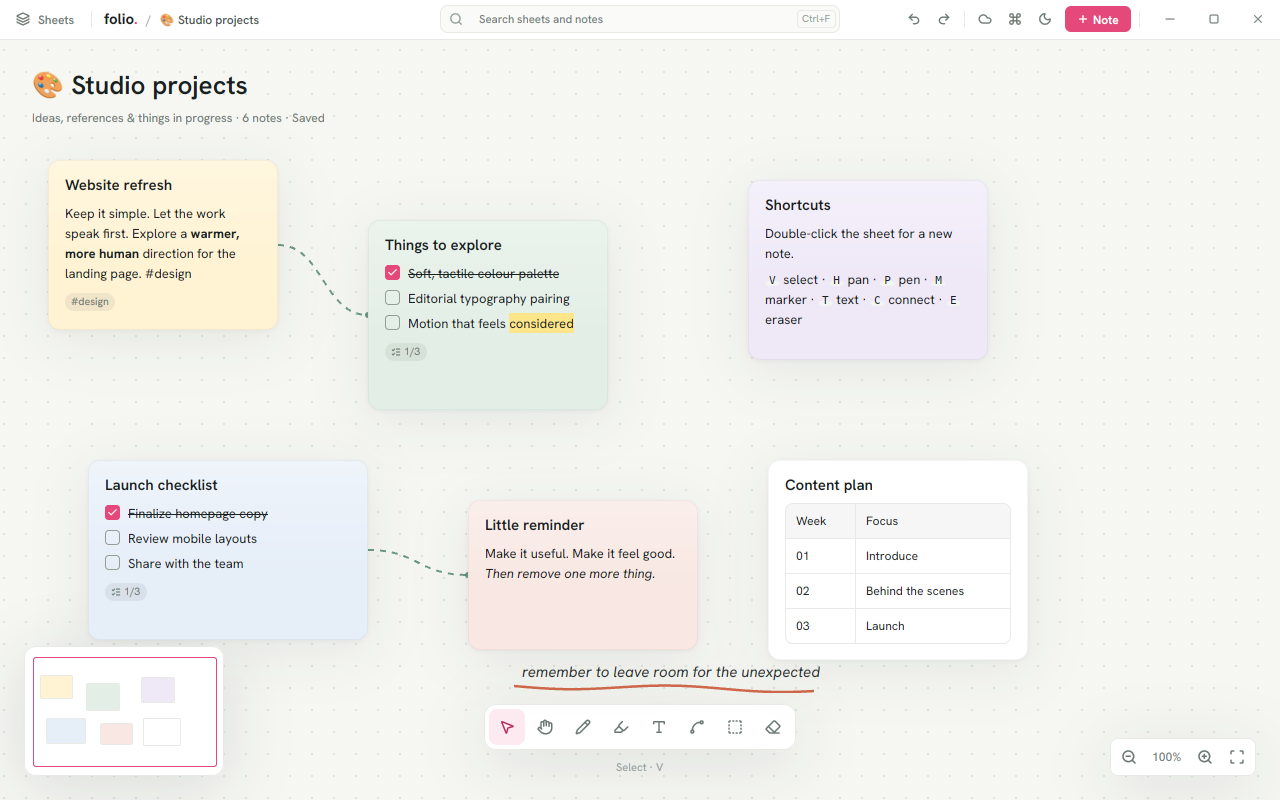
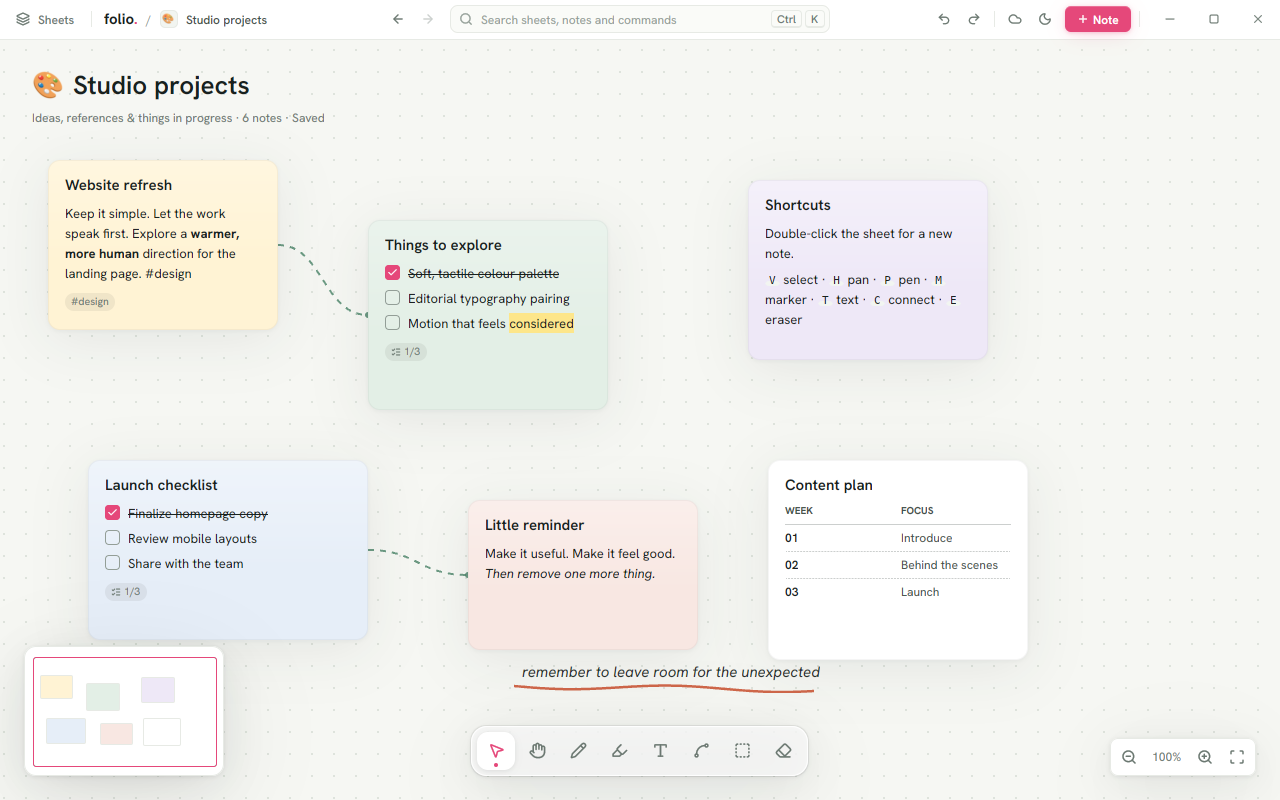
Docs and screenshots for the note types; the screenshot script gets past the welcome
PLAN.md and the README describe the four note types, the writing row
with its shortcuts, Remember boxes, the new tables, and text into
Markdown. scripts/screenshots.sh now answers the first-run welcome
(it stopped there before) and adds a "types" shot of the cheatsheet
sheet. The screenshots in docs/ are retaken, light and dark, on Linux;
nothing was seen on Windows.

Claude-Session: https://claude.ai/code/session_01GCSE1e8EJzYqPeJYXh6A2T

diff --git a/docs/PLAN.md b/docs/PLAN.md
@@ -19,8 +19,10 @@ and what is still to come.
 | Getting a thought down fast | ✅ Ctrl+Alt+N from any app opens a quick-note box → Inbox sheet; tray icon (Windows); start with Windows | a phone companion |
 | Notes visible outside the app | ✅ pin a note to the desktop: its own always-on-top window, ticks sync both ways, remembers where it was; see-through mode (solid again under the pointer) | |
 | Freeform canvas | ✅ pan (wheel, Space+drag, middle-drag, Hand), zoom at the cursor, zoom to fit; box select, Shift-click, group move; alignment guides; snap to the dot grid (Settings); areas that carry their notes; tidy up; arrow keys between notes; a map in the corner; drag notes to the left edge to drop them on another sheet; notes lift while dragged and settle with a small bounce | |
-| Sticker styling | ✅ 6 papers, 3 sizes, 3 fonts (sans, handwritten, mono), grow-with-text or fixed height (with a "+N more lines" fade), lock, a faint paper sheen | slight tilt: GPUI can't rotate elements, so it needs custom-drawn notes |
-| Editing | ✅ type straight on the note with a format bar (paper, font, size, task, picture, reminder, more); Esc/Done keeps it | WYSIWYG rendering while typing |
+| Sticker styling | ✅ 12 papers, 3 sizes, 3 fonts (sans, handwritten, mono), grow-with-text or fixed height (with a "+N more lines" fade), lock, a faint paper sheen; four note types: Card (the default), Taped (squarer paper, clear tape, a curl at the foot), Cheat card (the title on a deeper band of the paper), Index card (a pin, a pink margin, blue rules the text sits on, one thing per line); the type from the edit bar, a note's menu, S on the sheet, or the sheet's menu for a new note; new notes follow the type and font of the note changed last; a cross on hover sends a note to the Trash | slight tilt: GPUI can't rotate elements, so it needs custom-drawn notes |
+| Editing | ✅ type straight on the note with a two-row edit bar. Writing: bold (Ctrl+B), italic (Ctrl+I), strikethrough (Ctrl+Shift+X), code (Ctrl+E), highlight (Ctrl+Shift+M), bullets (Ctrl+Shift+B), numbers (Ctrl+Shift+O), tasks (Ctrl+Shift+C), a table, a Remember box (Ctrl+Shift+R), Markdown (Ctrl+Shift+T), picture, reminder, more. Look: type, paper, font, size, Done. Enter continues a list; Esc/Done keeps it | WYSIWYG rendering while typing |
+| Text into Markdown | ✅ `src/markdown.rs` turns plain text (pasted from Word, a PDF or a chat) into Markdown: `•`/`–`/`o` bullets, `1)`/`(a)` numbers, `☐`/`✔` boxes, `Term: meaning` with a bold term, `Tip:`/`Remember:` lines as a Remember box, tab-separated lines as a table, a short first line as the title. On the selection or the whole note (Ctrl+Shift+T, the edit bar's Markdown, a note's menu); Ctrl+Shift+V pastes as Markdown, on the sheet or in a note | rich-text (HTML) paste |
+| Remember boxes and tables | ✅ `>` lines draw as a Remember box, labelled by a first line such as `**Tip:**` or `[!NOTE]`; tables draw on the paper with small-caps headers and dashed rules | |
 | Tasks | ✅ `- [ ]` lines are real checkboxes you tick with a click, with a done/total chip | |
 | Coloured text | ✅ highlights (`<mark color="green">`), in tasks too | foreground colour (§4.1) |
 | Tables, images, GIFs, SVG | ✅ as before; link cards from a pasted address: the page's title, site icon and preview picture | crop, captions; animated SVG (§4.2) |
@@ -105,7 +107,10 @@ src/
   assets.rs      embedded icons, fonts, logo
   ui/app.rs      Folio view: state, tools, gestures, undo/redo, debounced save
   ui/board.rs    the sheet: pointer handling, culling, painting dots/ink/links
-  ui/sticker.rs  one sticker: paper, picture, title, Markdown, level of detail
+  markdown.rs    a note's text as blocks (text, tasks, Remember boxes, tables),
+                 the edit bar's formatting, text into Markdown  (no GPUI)
+  ui/sticker.rs  one sticker: its type, paper, picture, title, Markdown,
+                 level of detail
   ui/sidebar.rs  sheets list, theme switch
   ui/topbar.rs   breadcrumb, search, undo/redo, delete sheet, New note
   ui/toolbar.rs  floating tool dock + ink swatches, zoom control
@@ -119,7 +124,8 @@ Board    { version, categories: Vec<Category>, active, dark, next_id }
 Category { id, name, blurb, accent, camera: Camera,
            stickers: Vec<Sticker>,   // back-to-front: order = z-order
            strokes:  Vec<Stroke>, labels: Vec<Label>, links: Vec<Link> }
-Sticker  { id, rect, paper, title, body /* Markdown */, image, text_size, edited }
+Sticker  { id, rect, paper, style /* Card, Taped, Cheat, Index */, title,
+           body /* Markdown */, image, text_size, font, edited, … }
 Stroke   { id, ink, width, marker, points: Vec<Vec2> }   // world units
 Label    { id, at, text, ink }
 Link     { id, from: StickerId, to: StickerId, ink }
@@ -329,6 +335,12 @@ any board size. It is also the foundation for sync (§6).
 - **Motion (planned):** stickers ease to their lifted shadow in 120 ms;
   new stickers scale from 96 % with a 160 ms ease-out; sheet switches
   cross-fade in 120 ms. Respect "reduce motion".
+- **Note types** draw from their own tokens: `paper_band` (a cheat card's
+  band, per paper), `tape`/`tape_edge`, `curl`, `wash` (the Remember box),
+  `rule` (table rules), `ruled`/`margin`/`head_rule` (index cards), `pin`,
+  and `shadow_taped`/`shadow_index`. The type and writing icons (note-*,
+  bold, italic, strikethrough, code, list, list-ordered, table) are
+  Folio's own, drawn to match Lucide's.
 - **Tilt (planned):** the mockup tilts stickers ±2°. GPUI elements can't be
   rotated, so this needs either painting stickers as textured quads in a
   custom element or rendering them to a texture. That's deferred because

diff --git a/README.md b/README.md
@@ -14,6 +14,10 @@ workbook. Written in Rust on [GPUI](https://www.gpui.rs/) (through
 - **Notes:** type straight onto them; Markdown with tables, task lists you
   tick with a click, coloured highlights, pictures and animated GIFs, link
   cards; notes grow with their text; reminders; lock; a handwritten font.
+  Four types of note: card, taped, cheat card (the title on a band) and
+  index card (ruled, with a pin); Remember boxes from `>` lines; an edit
+  bar with bold, italic, lists, tasks, tables and more, each with a
+  shortcut; pasted plain text turned into Markdown in one go.
 - **The sheet:** pan and zoom, box-select and move groups with alignment
   guides, areas (Kanban columns, days of the week…), pen, marker, eraser,
   text on the sheet, curved links between notes, tidy up, a map.
@@ -24,6 +28,8 @@ workbook. Written in Rust on [GPUI](https://www.gpui.rs/) (through
   backup every day (the last 14 kept) you can restore from.
 
 ![Folio, a sheet in dark mode](docs/screenshots/sheet-dark.png)
+
+![A cheatsheet of taped notes, cheat cards and index cards](docs/screenshots/types-light.png)
 
 ## Run it
 
@@ -146,7 +152,11 @@ set to its address.
 | Ctrl+F | Search notes |
 | Ctrl+Alt+N | Quick note from any app |
 | Ctrl+N / Ctrl+Shift+N | New note / new sheet |
-| Ctrl+B | The sheets drawer |
+| Ctrl+B | The sheets drawer (bold, while typing in a note) |
+| While typing | Ctrl+B / I bold, italic · Ctrl+E code · Ctrl+Shift+X strikethrough · Ctrl+Shift+M highlight · Ctrl+Shift+B / O / C bullets, numbers, tasks · Ctrl+Shift+R a Remember box · Enter continues a list |
+| S | The selected notes' type: card, taped, cheat card, index card |
+| Ctrl+Shift+T | Turn text into Markdown (the selection, or the whole note) |
+| Ctrl+Shift+V | Paste as Markdown |
 | Ctrl+Z / Ctrl+Shift+Z | Undo / redo |
 | Ctrl+, | Settings |
 
